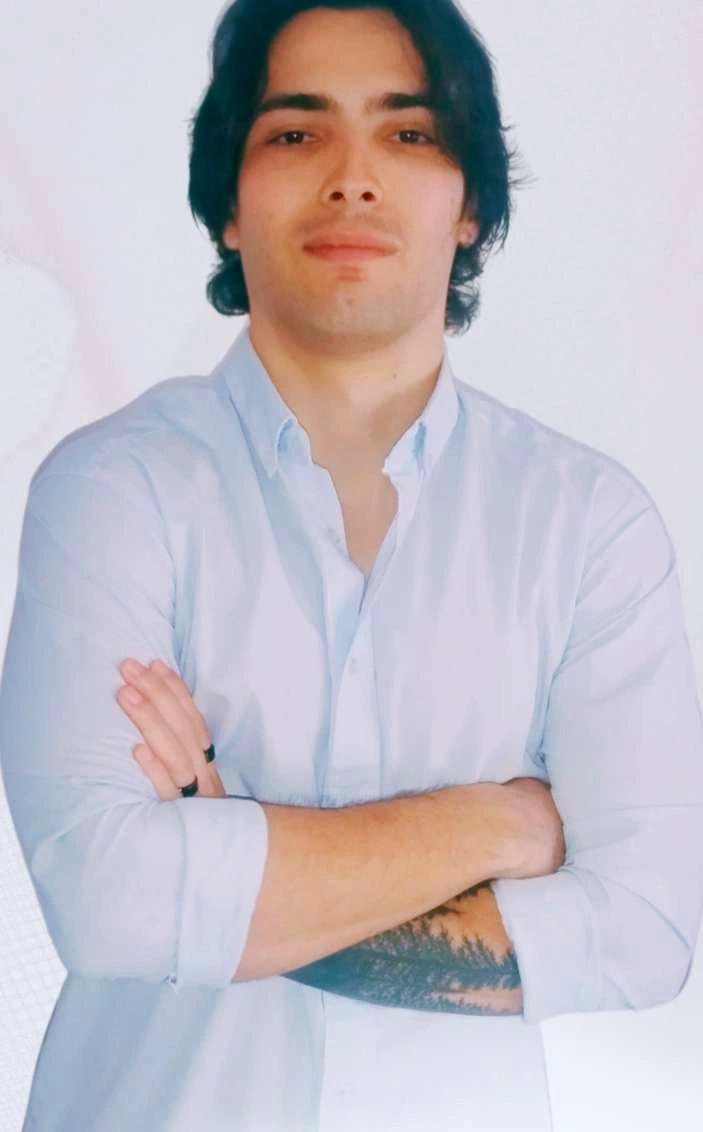
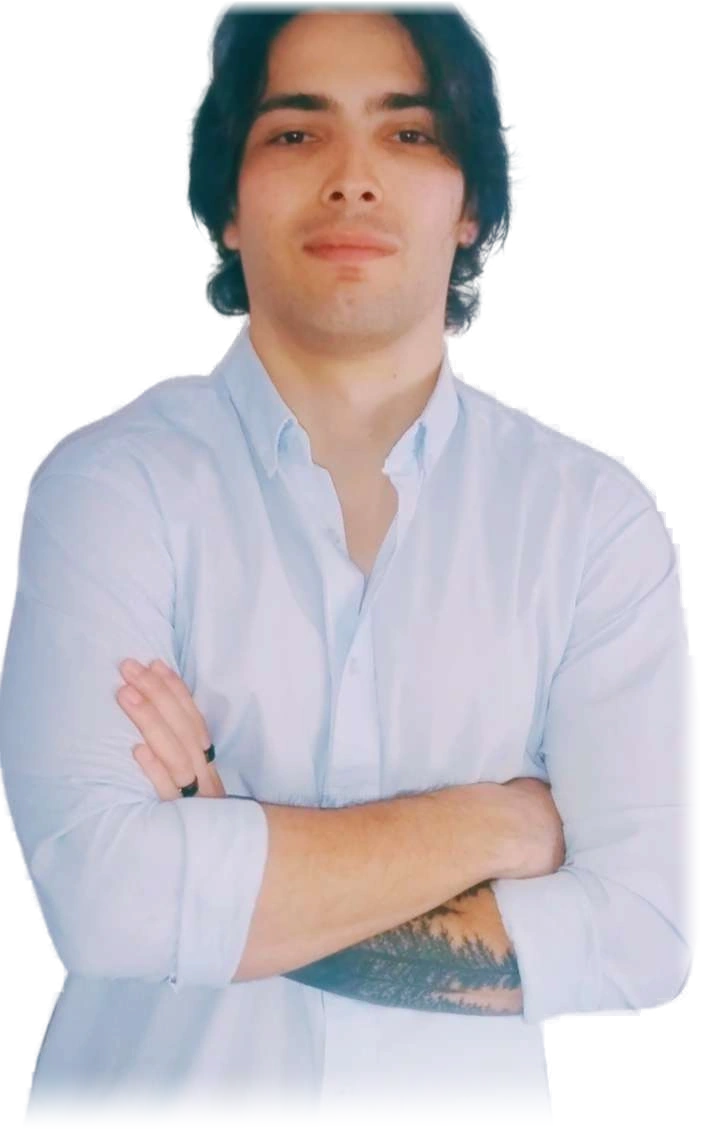
feat(portrait): remover badge con nombre, mostrar silueta a tamano completo e integrar fondo transparente con web

Changed region(s): [[0.0, 0.0, 1.0, 0.9585], [0.0, 0.7111, 0.5676, 1.0]]

diff --git a/styles.css b/styles.css
@@ -1115,16 +1115,17 @@ html[data-theme="light"] .hero-title-accent {
    ========================================================================== */
 .criterio-lead {
   display: grid;
-  grid-template-columns: 1fr 280px;
-  align-items: center;
+  grid-template-columns: 1.15fr 400px;
+  align-items: flex-end;
   gap: 3.5rem;
-  margin-bottom: 3.5rem;
+  margin-bottom: 4rem;
   padding-bottom: 3rem;
   border-bottom: 1px solid var(--line);
 }
 
 .criterio-lead-content {
-  max-width: 720px;
+  max-width: 680px;
+  padding-bottom: 1.5rem;
 }
 
 .criterio-lead-content .eyebrow {
@@ -1178,90 +1179,59 @@ html[data-theme="light"] .hero-title-accent {
   position: relative;
   display: flex;
   justify-content: center;
-  align-items: center;
+  align-items: flex-end;
+  width: 100%;
+}
+
+.criterio-portrait-ambient {
+  position: absolute;
+  inset: -15% -20% 0 -20%;
+  background: radial-gradient(circle at 50% 40%, rgba(255, 255, 255, 0.06) 0%, rgba(255, 255, 255, 0.01) 50%, transparent 75%);
+  pointer-events: none;
+  z-index: 0;
+}
+
+html[data-theme="light"] .criterio-portrait-ambient {
+  background: radial-gradient(circle at 50% 40%, rgba(0, 0, 0, 0.04) 0%, rgba(0, 0, 0, 0.01) 50%, transparent 75%);
 }
 
 .criterio-portrait-lines {
   position: absolute;
-  top: -35px;
-  bottom: -35px;
-  width: 140px;
+  top: -30px;
+  bottom: 0;
+  width: 200px;
   display: flex;
   justify-content: space-between;
   pointer-events: none;
   z-index: 0;
+  opacity: 0.85;
 }
 
 .criterio-portrait-lines span {
   width: 1px;
   height: 100%;
-  background: linear-gradient(to bottom, transparent, var(--line-strong), transparent);
+  background: linear-gradient(to bottom, transparent, var(--line-strong), transparent 90%);
 }
 
-.criterio-portrait-capsule {
+.criterio-portrait-img {
   position: relative;
   z-index: 1;
-  width: 270px;
-  height: 370px;
-  border-radius: 135px;
-  overflow: hidden;
-  border: 1px solid var(--line-strong);
-  background: var(--color-surface);
-  box-shadow: 0 20px 50px rgba(0, 0, 0, 0.45), inset 0 0 0 1px rgba(255, 255, 255, 0.08);
-  transition: transform 0.4s var(--ease), box-shadow 0.4s var(--ease);
-}
-
-.criterio-portrait-capsule:hover {
-  transform: translateY(-4px);
-  box-shadow: 0 28px 65px rgba(0, 0, 0, 0.55), inset 0 0 0 1px rgba(255, 255, 255, 0.15);
-}
-
-.criterio-portrait-capsule img {
   width: 100%;
-  height: 100%;
-  object-fit: cover;
-  object-position: top center;
+  max-width: 380px;
+  height: auto;
   display: block;
+  object-fit: contain;
+  filter: drop-shadow(0 24px 48px rgba(0, 0, 0, 0.55));
+  transition: transform 0.4s var(--ease), filter 0.4s var(--ease);
 }
 
-.criterio-portrait-scrim {
-  position: absolute;
-  inset: 0;
-  background: linear-gradient(to top, rgba(18, 18, 18, 0.88) 0%, rgba(18, 18, 18, 0.25) 25%, transparent 55%);
-  pointer-events: none;
+.criterio-portrait-img:hover {
+  transform: translateY(-4px) scale(1.015);
+  filter: drop-shadow(0 32px 64px rgba(0, 0, 0, 0.65));
 }
 
-html[data-theme="light"] .criterio-portrait-scrim {
-  background: linear-gradient(to top, rgba(255, 255, 255, 0.88) 0%, rgba(255, 255, 255, 0.2) 25%, transparent 55%);
-}
-
-.criterio-portrait-badge {
-  position: absolute;
-  bottom: 1.35rem;
-  left: 50%;
-  transform: translateX(-50%);
-  display: flex;
-  align-items: center;
-  gap: 0.5rem;
-  padding: 0.38rem 0.95rem;
-  background: rgba(18, 18, 18, 0.88);
-  backdrop-filter: blur(12px);
-  -webkit-backdrop-filter: blur(12px);
-  border: 1px solid rgba(255, 255, 255, 0.2);
-  border-radius: var(--radius-full);
-  font-family: var(--font-mono);
-  font-size: var(--fs-xs);
-  color: #ffffff;
-  white-space: nowrap;
-  box-shadow: 0 4px 16px rgba(0, 0, 0, 0.35);
-  pointer-events: none;
-}
-
-html[data-theme="light"] .criterio-portrait-badge {
-  background: rgba(255, 255, 255, 0.92);
-  border: 1px solid rgba(0, 0, 0, 0.15);
-  color: #121212;
-  box-shadow: 0 4px 16px rgba(0, 0, 0, 0.1);
+html[data-theme="light"] .criterio-portrait-img {
+  filter: drop-shadow(0 16px 36px rgba(0, 0, 0, 0.12));
 }
 
 .portrait-badge-dot {
@@ -1822,12 +1792,12 @@ html[data-theme="light"] .contact-card:hover {
 
   .criterio-portrait-wrap {
     order: -1;
+    max-width: 340px;
+    margin: 0 auto;
   }
 
-  .criterio-portrait-capsule {
-    width: 220px;
-    height: 310px;
-    border-radius: 110px;
+  .criterio-portrait-img {
+    max-width: 300px;
   }
 
   .methods-grid,

diff --git a/index.html b/index.html
@@ -37,7 +37,7 @@
   <link rel="shortcut icon" href="favicon.ico?v=9">
 
   <!-- Hojas de Estilo -->
-  <link rel="stylesheet" href="styles.css?v=10">
+  <link rel="stylesheet" href="styles.css?v=11">
 
   <!-- Datos Estructurados JSON-LD Schema.org -->
   <script type="application/ld+json">
@@ -420,29 +420,22 @@
             <div class="criterio-badges">
               <span class="criterio-badge">
                 <span class="portrait-badge-dot" aria-hidden="true"></span>
-                Germán Andrés Gómez
+                Lead Developer &amp; UI/UX
               </span>
-              <span class="criterio-badge-sub">Lead Developer &amp; UI/UX</span>
               <span class="criterio-badge-sub">Frontend Architecture</span>
               <span class="criterio-badge-sub">Design Systems</span>
             </div>
           </div>
 
           <div class="criterio-portrait-wrap">
+            <div class="criterio-portrait-ambient" aria-hidden="true"></div>
             <div class="criterio-portrait-lines" aria-hidden="true">
               <span></span>
               <span></span>
               <span></span>
               <span></span>
             </div>
-            <div class="criterio-portrait-capsule">
-              <img src="images/profile-portrait.webp" alt="Germán Andrés Gómez — Lead Developer &amp; UI/UX" width="270" height="370" loading="eager">
-              <div class="criterio-portrait-scrim"></div>
-              <div class="criterio-portrait-badge">
-                <span class="portrait-badge-dot" aria-hidden="true"></span>
-                <span>Bogotá, Colombia · Remoto</span>
-              </div>
-            </div>
+            <img src="images/profile-portrait.webp?v=11" alt="Fotografía profesional" width="703" height="1132" class="criterio-portrait-img" loading="eager">
           </div>
         </div>
 
@@ -1585,7 +1578,7 @@
   </footer>
 
   <!-- Script Funcional Ultraligero -->
-  <script src="app.js?v=10"></script>
+  <script src="app.js?v=11"></script>
 </body>
 
 </html>
